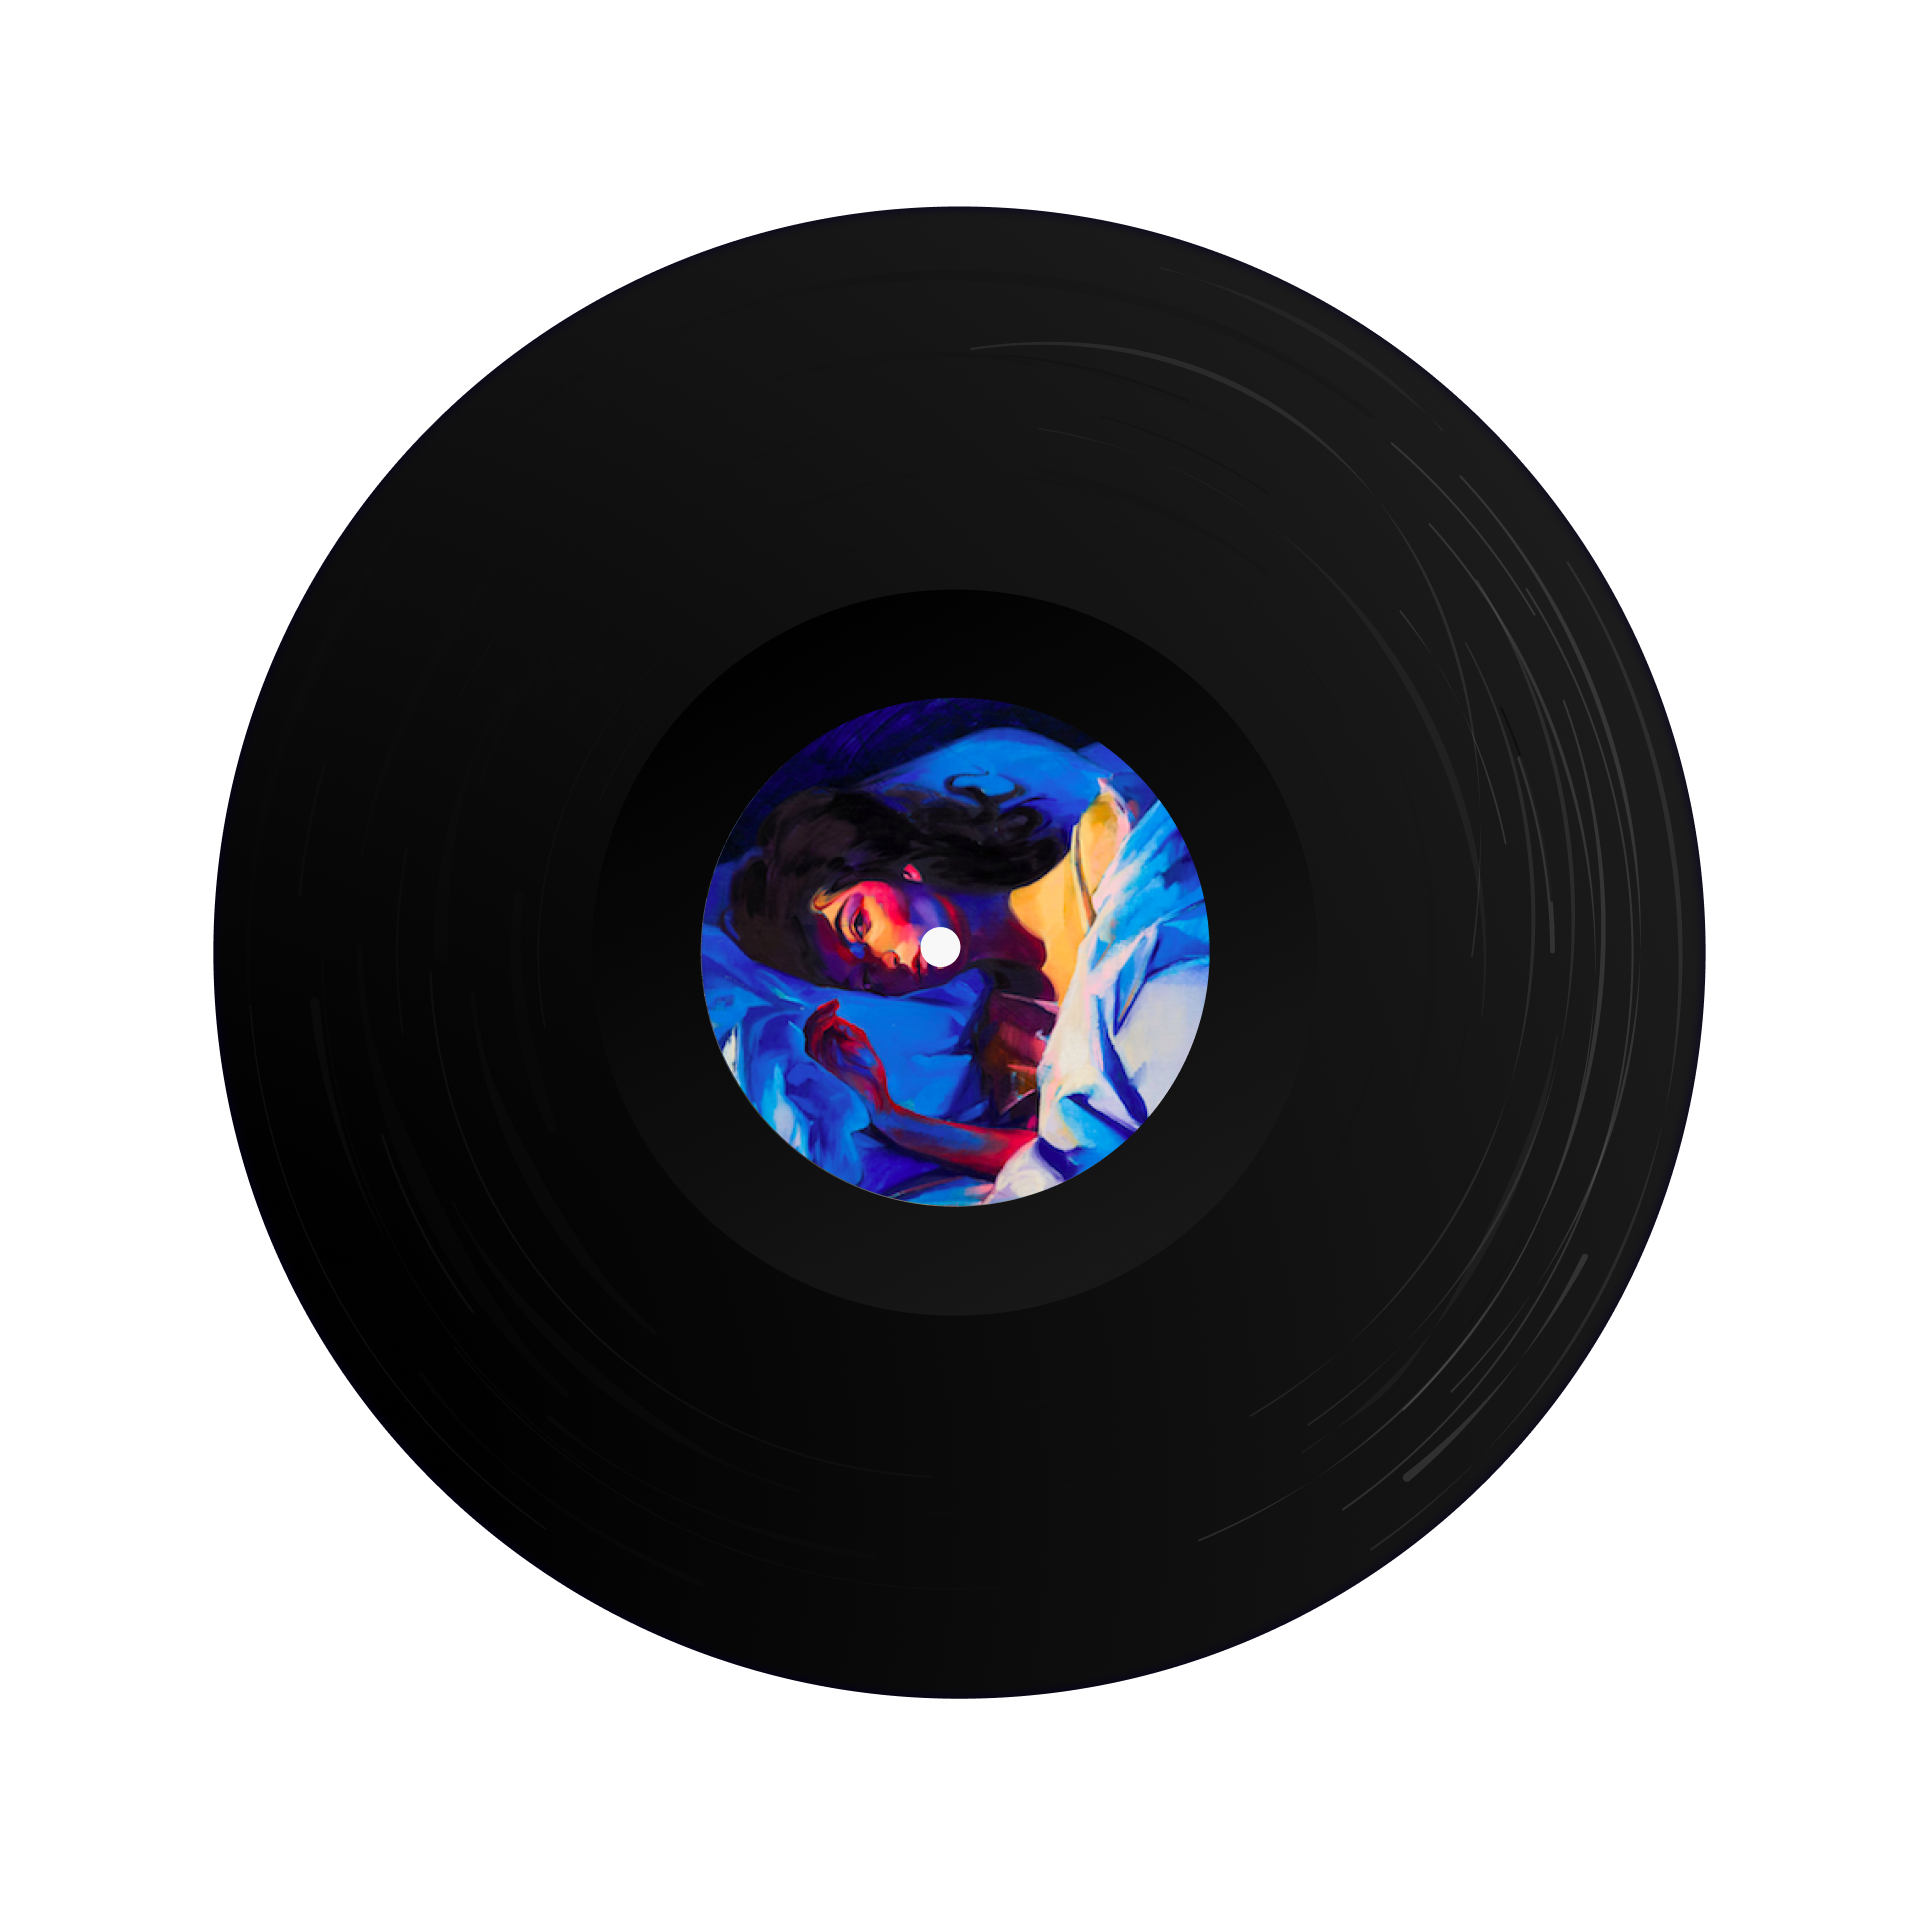
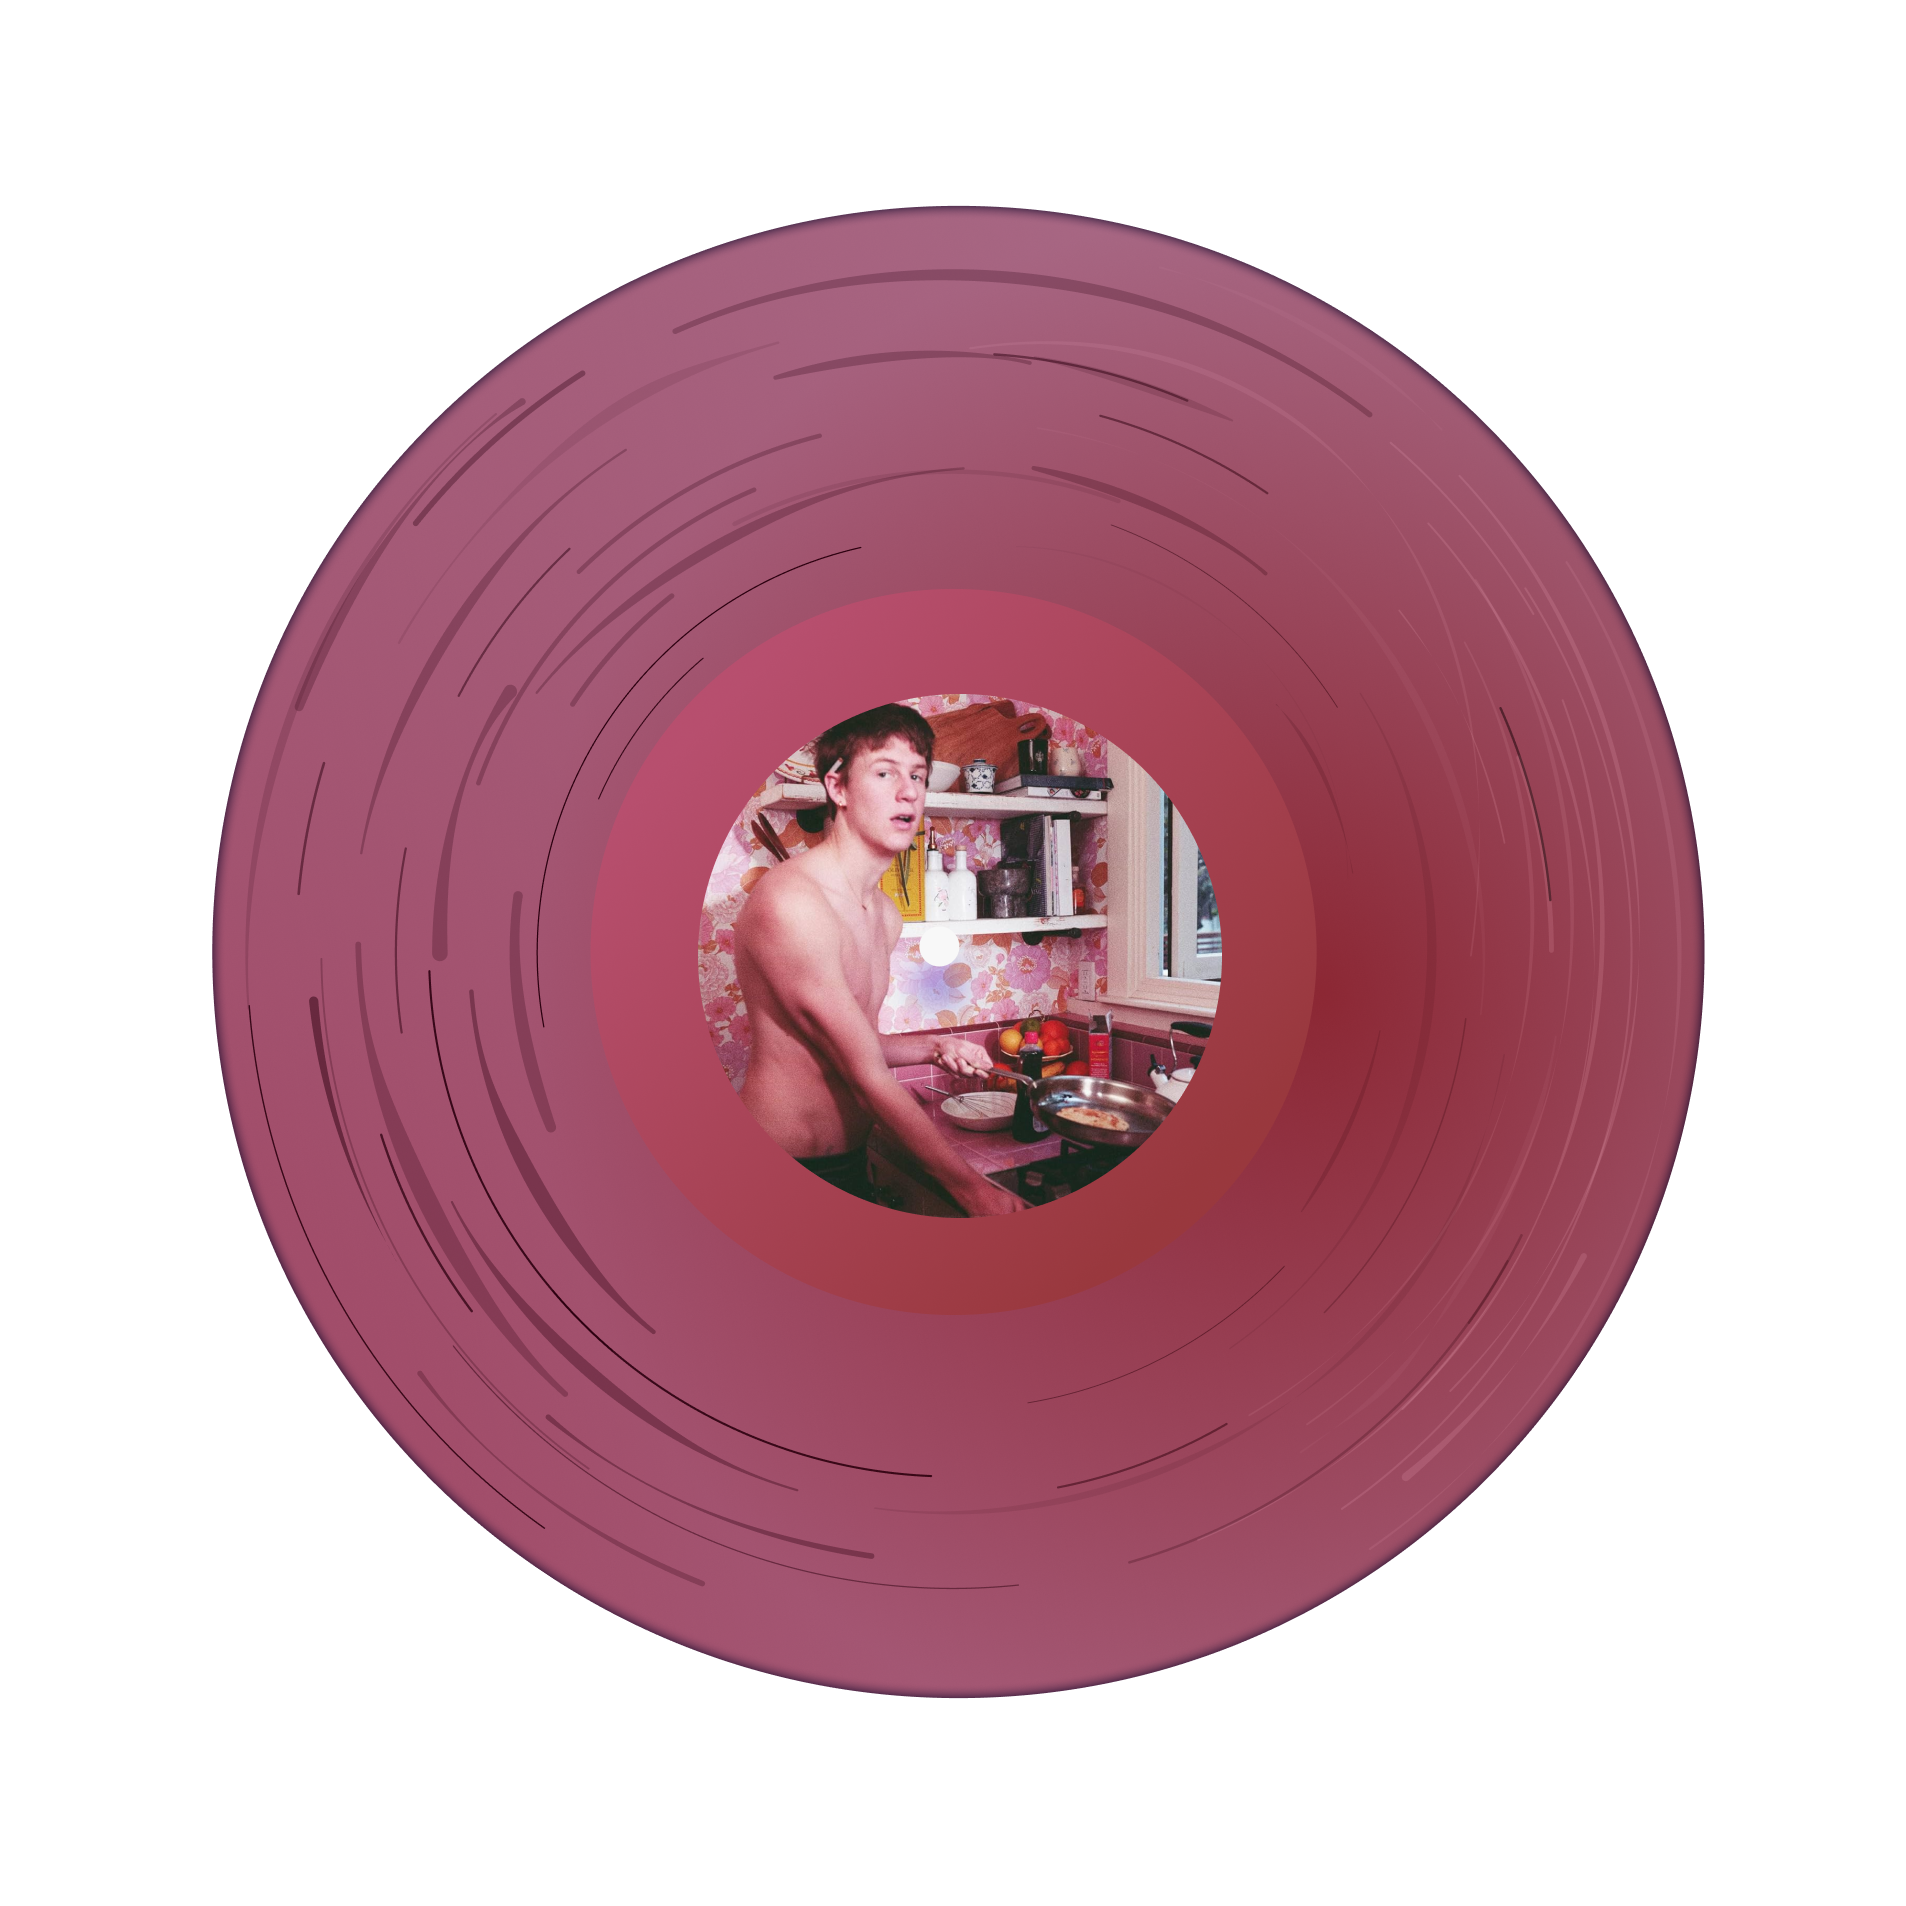
vinyl

diff --git a/public/index.html b/public/index.html
@@ -2,6 +2,7 @@
 <html lang="en">
   <head>
     <meta charset="utf-8" />
+    <!-- <link rel="icon" href="%PUBLIC_URL%/favicon.ico" /> -->
     <meta name="viewport" content="width=device-width, initial-scale=1" />
     <meta name="theme-color" content="#000000" />
     <meta
@@ -9,27 +10,53 @@
       content="Web site created using create-react-app"
     />
 
-    <!-- Favicon for desktop & browsers -->
-    <link rel="icon" type="image/png" href="%PUBLIC_URL%/favicon.png?v=2" />
-
-    <!-- Apple Touch Icon for iOS home screen -->
-    <link rel="apple-touch-icon" sizes="180x180" href="%PUBLIC_URL%/favicon.png?v=2" />
-
-    <!-- Web App Manifest (for PWA support) -->
+    <link rel="icon" type="image/png" href="%PUBLIC_URL%/favicon.png" />
+    <link rel="apple-touch-icon" href="%PUBLIC_URL%/logo192.png" />
+    <!--
+      manifest.json provides metadata used when your web app is installed on a
+      user's mobile device or desktop. See https://developers.google.com/web/fundamentals/web-app-manifest/
+    -->
     <link rel="manifest" href="%PUBLIC_URL%/manifest.json" />
+    <!--
+      Notice the use of %PUBLIC_URL% in the tags above.
+      It will be replaced with the URL of the `public` folder during the build.
+      Only files inside the `public` folder can be referenced from the HTML.
 
-    <title>Katie Sun | Portfolio</title>
-
-    <!-- Fonts -->
+      Unlike "/favicon.ico" or "favicon.ico", "%PUBLIC_URL%/favicon.ico" will
+      work correctly both with client-side routing and a non-root public URL.
+      Learn how to configure a non-root public URL by running `npm run build`.
+    -->
+    <title>Katie Sun  | Portfolio</title>
+  </head>
+  <body>
     <link rel="preconnect" href="https://fonts.googleapis.com" />
     <link rel="preconnect" href="https://fonts.gstatic.com" crossorigin />
     <link
       href="https://fonts.googleapis.com/css2?family=DM+Sans:ital,opsz,wght@0,9..40,100..1000;1,9..40,100..1000&display=swap"
       rel="stylesheet"
     />
-  </head>
-  <body>
     <noscript>You need to enable JavaScript to run this app.</noscript>
     <div id="root"></div>
+    <!--
+      This HTML file is a template.
+      If you open it directly in the browser, you will see an empty page.
+
+      You can add webfonts, meta tags, or analytics to this file.
+      The build step will place the bundled scripts into the <body> tag.
+
+      To begin the development, run `npm start` or `yarn start`.
+      To create a production bundle, use `npm run build` or `yarn build`.
+    -->
+    <!-- <script>
+      const originalTitle = document.title;
+
+      window.addEventListener("blur", () => {
+        document.title = "nooo dont go";
+      });
+
+      window.addEventListener("focus", () => {
+        document.title = originalTitle;
+      });
+    </script> -->
   </body>
 </html>

diff --git a/src/components/AboutMe.js b/src/components/AboutMe.js
@@ -62,14 +62,14 @@ function AboutMe() {
         <div className="musicvinyls">
           <div className="breezeblocks">
             {" "}
-            <a target="_blank" href="https://youtu.be/tjuIzZ8uldo">
+            <a target="_blank" href="https://www.youtube.com/watch?v=cmaYpQniliE&list=RDcmaYpQniliE&start_radio=1">
               <img
                 className="breezeblocksVinyl"
                 src={breezeblocks}
-                alt="homemade dynamite vinyl"
+                alt="ladygirl vinyl"
               />
             </a>
-            <h2>Homemade Dynamite - Lorde</h2>
+            <h2>Ladygirl - Malcom Todd</h2>
           </div>
 
           <div className="everseen">

diff --git a/src/components/smoothscroll.js b/src/components/smoothscroll.js
@@ -1,0 +1,18 @@
+export default function initSmoothScroll() {
+    let currentScroll = 0;
+    let targetScroll = 0;
+    const ease = 0.08;
+  
+    function smoothScroll() {
+      currentScroll += (targetScroll - currentScroll) * ease;
+      window.scrollTo(0, currentScroll);
+      requestAnimationFrame(smoothScroll);
+    }
+  
+    window.addEventListener("scroll", () => {
+      targetScroll = window.scrollY;
+    });
+  
+    smoothScroll();
+  }
+  
